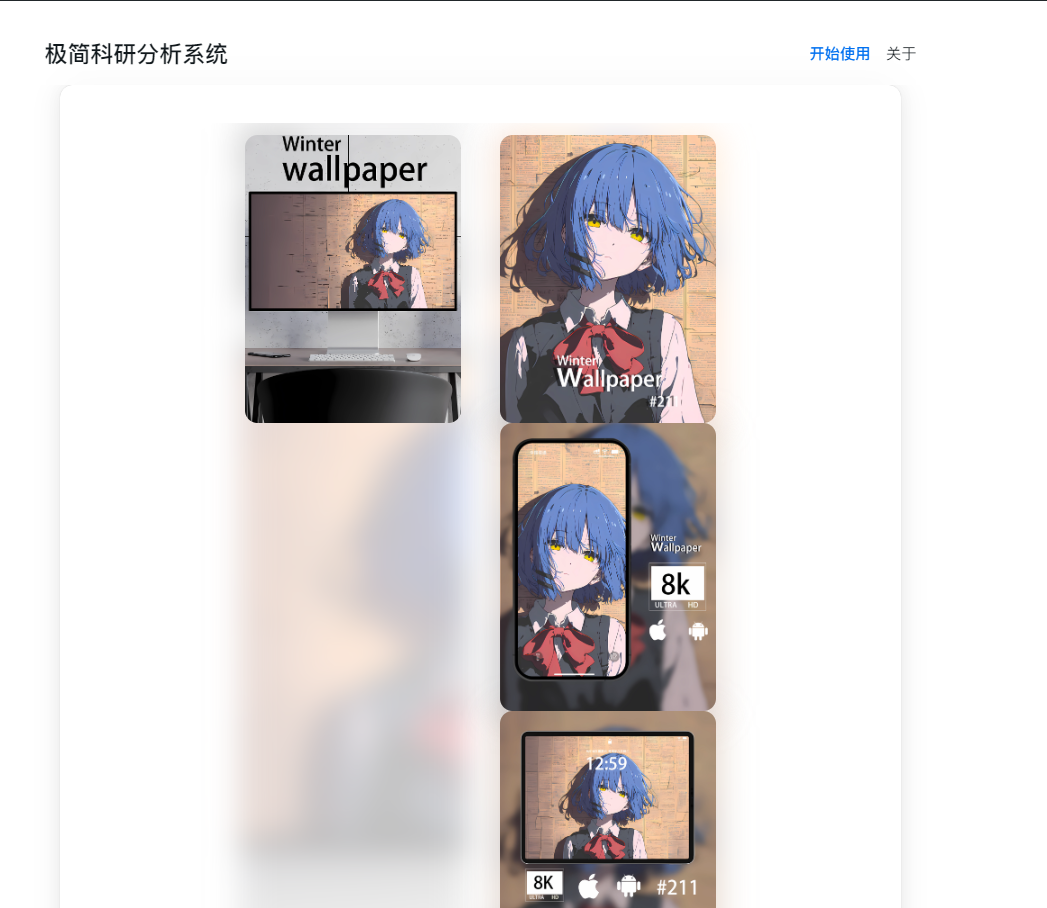
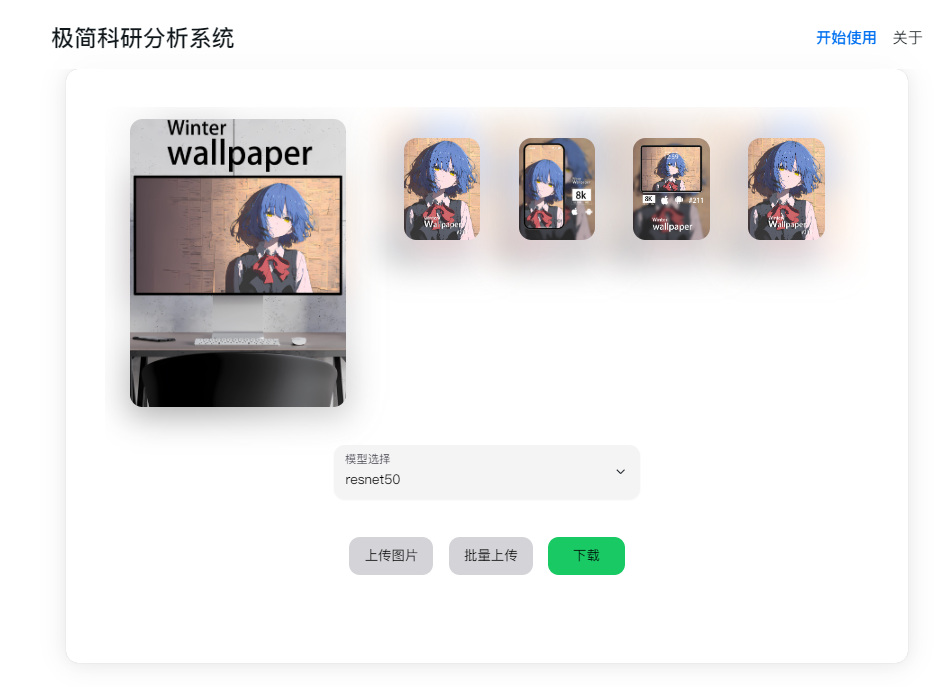
🎈 pref: 优化批量处理样式

diff --git a/src/components/content.tsx b/src/components/content.tsx
@@ -158,28 +158,28 @@ export default function Content() {
                         <div>
                             {
                                 Number(process.env.NEXT_PUBLIC_RENDER_IMAGES_LEN)! > 0 ?
-                                    Array.from({ length: Number(process.env.NEXT_PUBLIC_RENDER_IMAGES_LEN) }, (_, index) => index)
-                                        .map((index) => (
-                                            <div>
-                                                <Image
-                                                    isBlurred
-                                                    width={ 240 }
-                                                    style={ displayResult ? {} : {display: "none"} }
-                                                    src={ `${process.env.NEXT_PUBLIC_MODEL_RES_BATCH_PREFIX}${index}${process.env.NEXT_PUBLIC_MODEL_RES_BATCH_SUFFIX}` }
-                                                    alt="NextUI Album Cover"
-                                                    classNames="m-5"
-                                                />
-                                                <p>{process.env[`NEXT_PUBLIC_MODEL_RES_${index}`]}</p>
-                                            </div>
-
-                                        )) :
-                                    <Image
+                                    <div className="flex flex-wrap content-center">
+                                        {
+                                            Array.from({ length: Number(process.env.NEXT_PUBLIC_RENDER_IMAGES_LEN) }, (_, index) => index)
+                                                .map((index) => (
+                                                    <Image
+                                                        isBlurred
+                                                        style={ displayResult ? {} : {display: "none"} }
+                                                        src={ `${ process.env.NEXT_PUBLIC_MODEL_RES_BATCH_PREFIX }${ index }${ process.env.NEXT_PUBLIC_MODEL_RES_BATCH_SUFFIX }` }
+                                                        alt="NextUI Album Cover"
+                                                        className="m-5 w-20"
+                                                    />
+                                                ))
+                                        }
+                                    </div>
+                                        :
+                                <Image
                                         isBlurred
                                         width={ 240 }
                                         style={ displayResult ? {} : {display: "none"} }
                                         src={ process.env.NEXT_PUBLIC_MODEL_RES }
                                         alt="NextUI Album Cover"
-                                        classNames="m-5"
+                                        className="m-5"
                                     />
                             }
                         </div>
